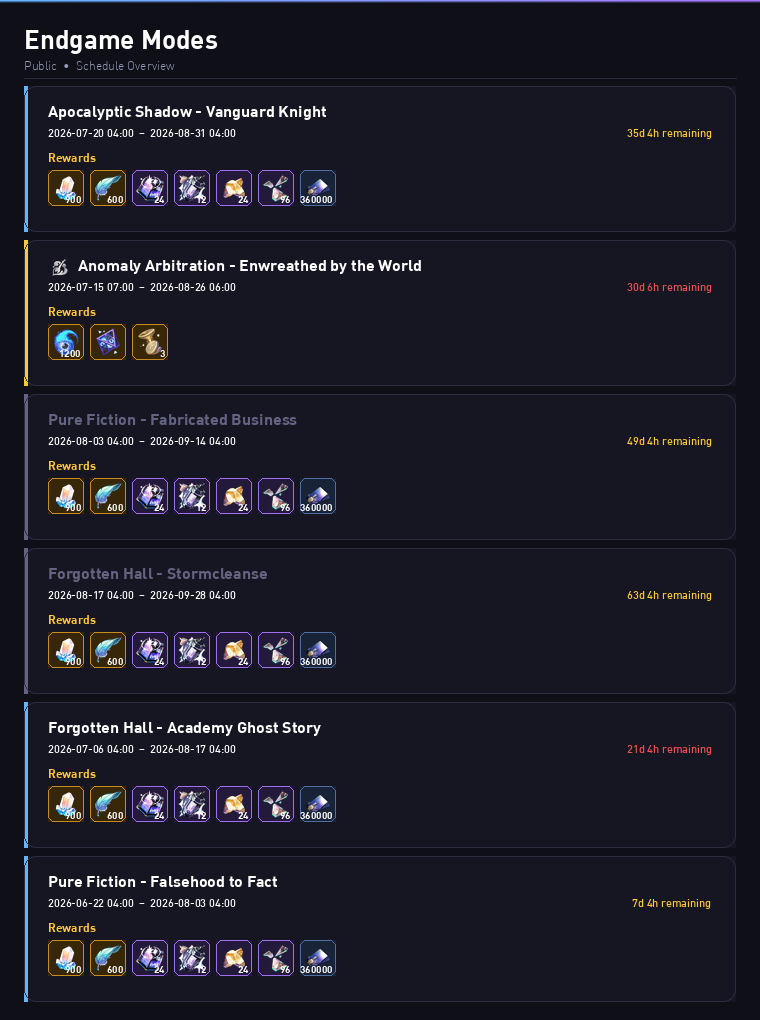
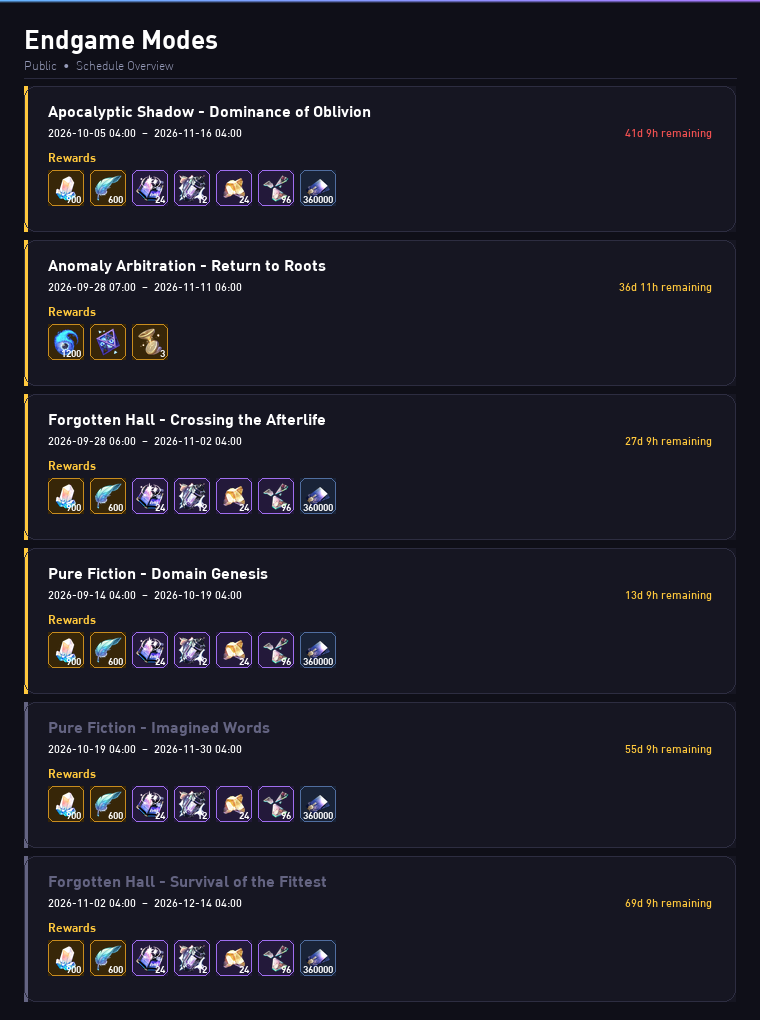
added : main.py

diff --git a/main.py b/main.py
@@ -1,0 +1,60 @@
+import asyncio
+import os
+from dotenv import load_dotenv
+
+load_dotenv()
+from src.hsr_cards import HonkaiStarrail
+from src.hsr_cards.models.auth import Cookies
+
+UID = 800556377 
+
+proxy = None  # Optional: Set your proxy here if needed
+
+os.makedirs("Cards",exist_ok=True)
+
+async def main():
+    async with HonkaiStarrail(uid=UID, cookie=None,proxy=proxy) as client:
+        print(f"[*] Testing with UID: {UID}")
+
+        print("[*] Rendering Banners...")
+        img = await client.banners()
+        img.save("Cards/banners.png")
+        print("[OK] Banners saved -> Cards/banners.png")
+
+        print("[*] Rendering Events...")
+        img = await client.events()
+        img.save("Cards/events.png")
+        print("[OK] Events saved -> Cards/events.png")
+
+        print("[*] Rendering Endgame Modes...")
+        img = await client.endgame()
+        img.save("Cards/endgame.png")
+        print("[OK] Endgame saved -> Cards/endgame.png")
+
+        # print("[*] Rendering Notes...")
+        # img = await client.notes()
+        # img.save("Cards/notes.png")
+        # print("[OK] Notes saved -> Cards/notes.png")
+
+        print("[*] Fetching MOC...")
+        img = await client.MOC(schedule_type="1")
+        img.save("Cards/moc.png")
+        print("[OK] MOC saved -> Cards/moc.png")
+
+        print("[*] Fetching Pure Fiction...")
+        img = await client.PF(schedule_type="1")
+        img.save("Cards/pf.png")
+        print("[OK] PF saved  -> Cards/pf.png")
+
+        # print("[*] Fetching Apocalyptic Shadow...")
+        # img = await client.shadow(schedule_type="1")
+        # img.save("Cards/shadow.png")
+        # print("[OK] Shadow saved -> Cards/shadow.png")
+
+        # print("[*] Fetching Anomaly...")
+        # img = await client.anomaly()
+        # img.save("Cards/anomaly.png")
+        # print("[OK] Anomaly saved -> Cards/anomaly.png")
+
+if __name__ == "__main__":
+    asyncio.run(main())
